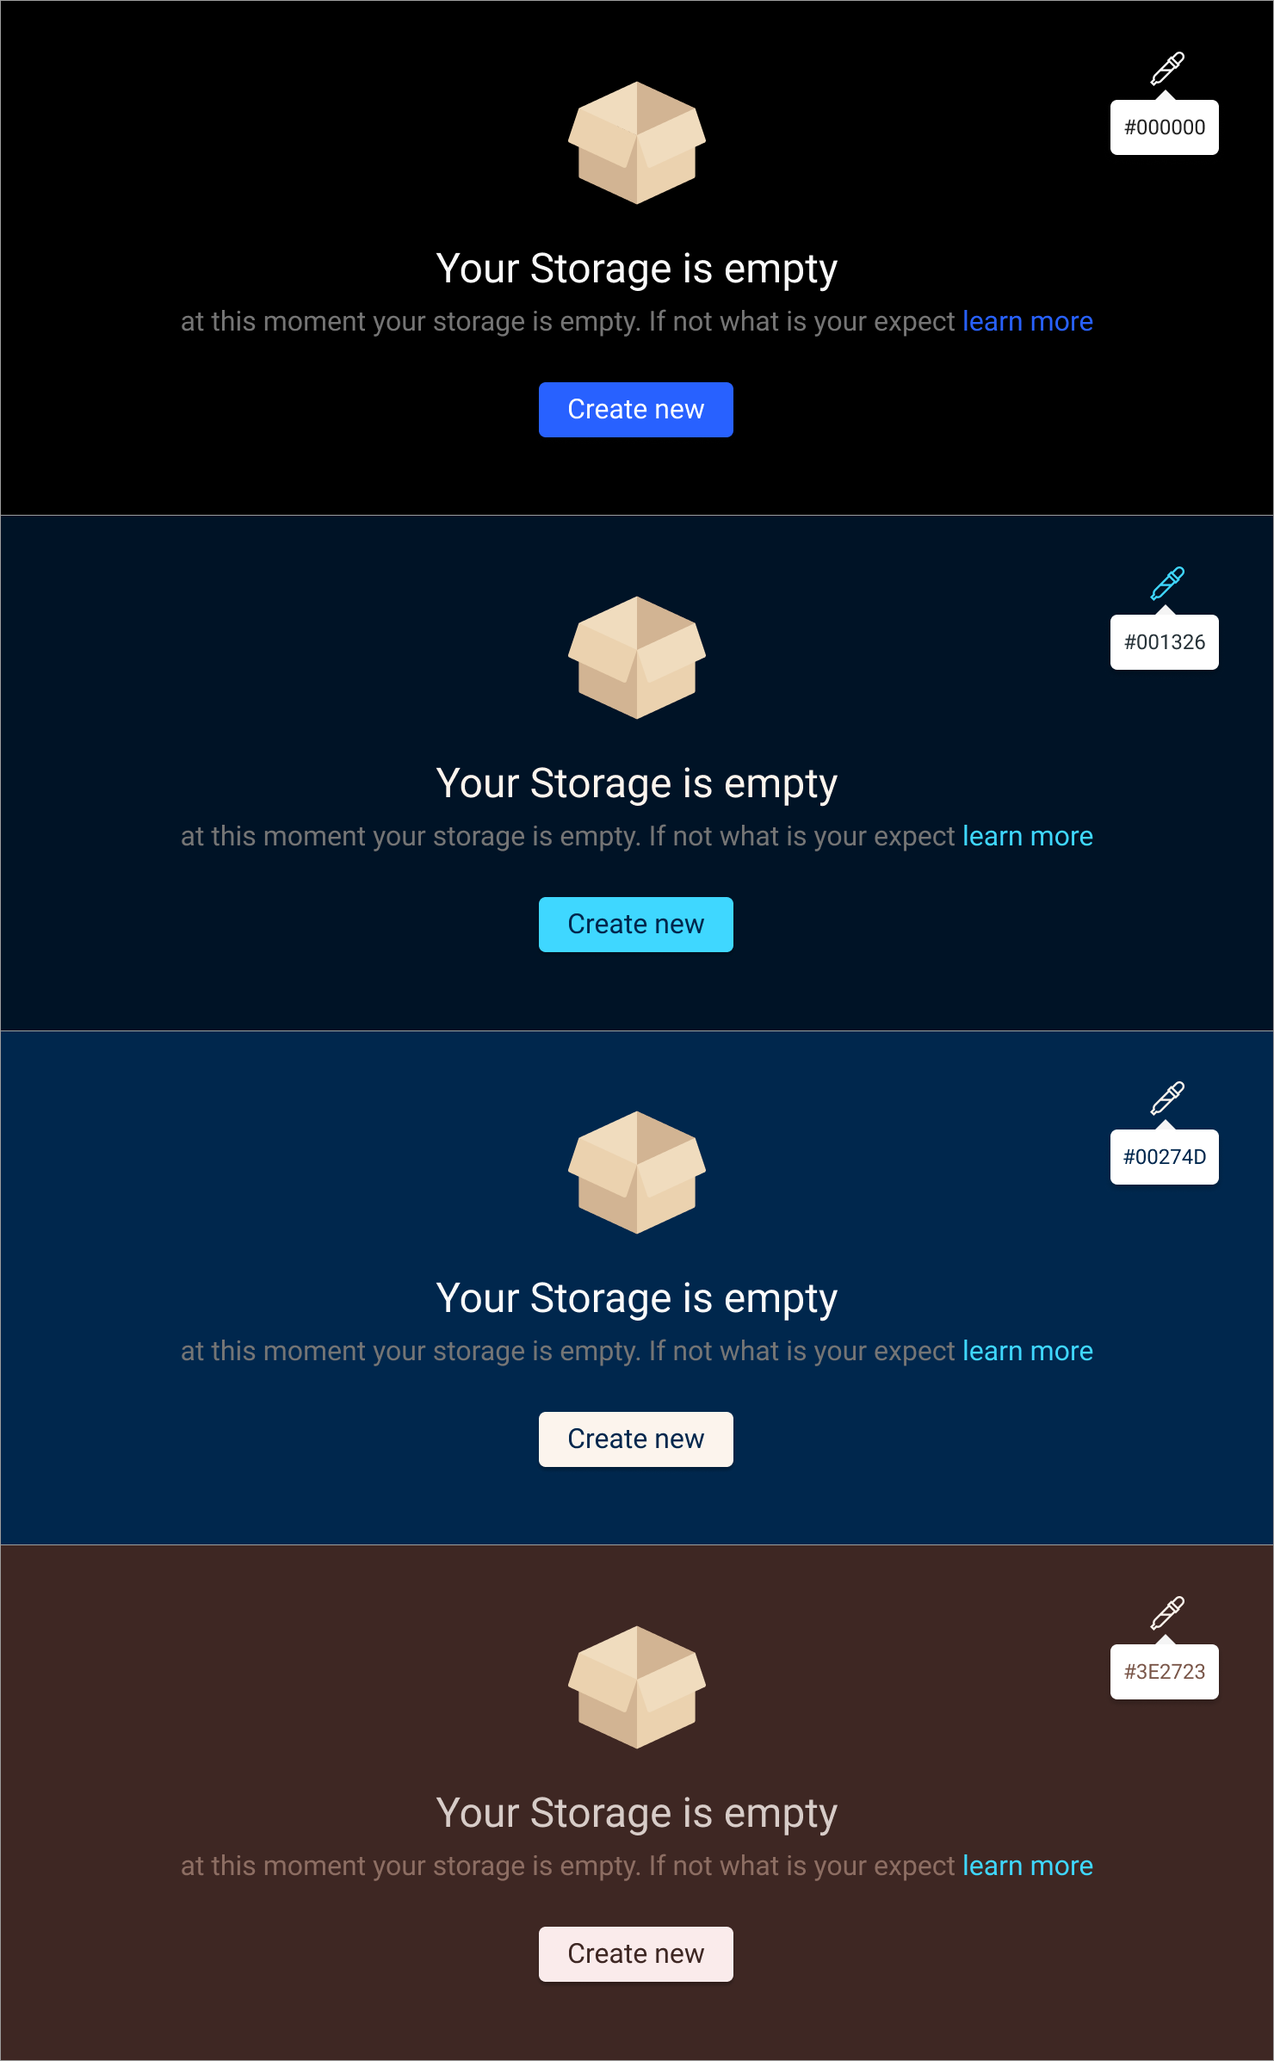
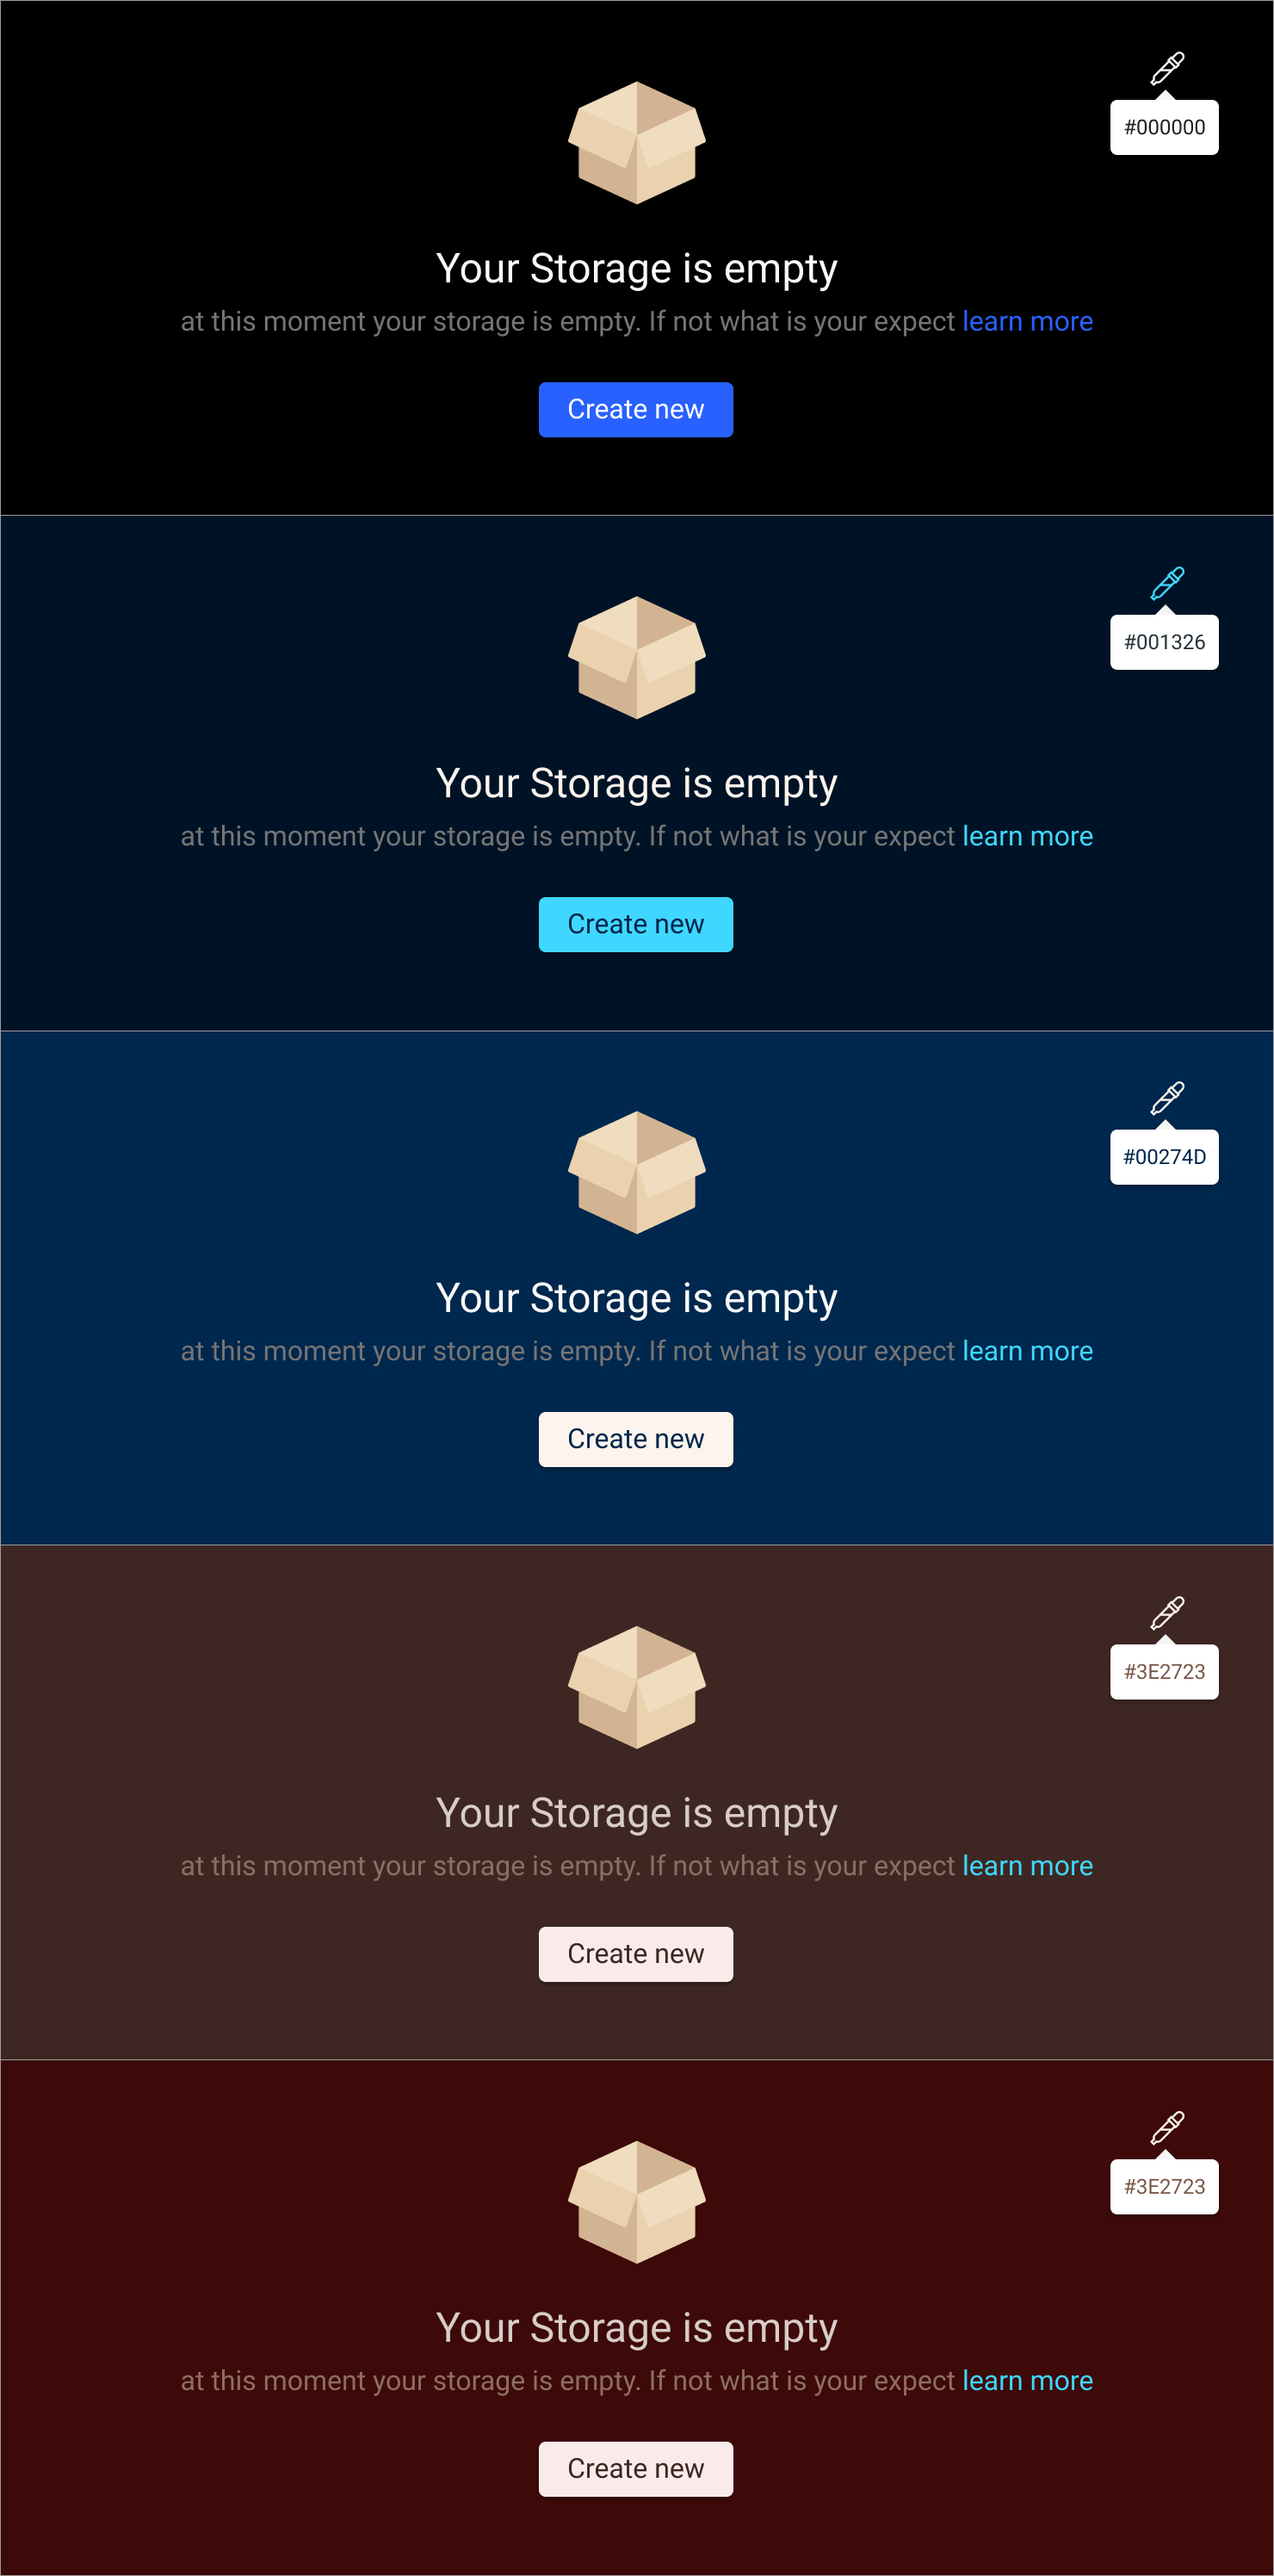
edit elevation

diff --git a/docs/visual-color.md b/docs/visual-color.md
@@ -135,6 +135,22 @@ Colors
 ##### **Elevation structure**
 ![Branding](images/visual-color/theme-elevation1.png)
 
+![Branding](images/visual-color/theme-elevation4.png)
+
+**A. Ground Level** พื้นหลักของตัวแอ๊ปฟลิเคชั่นเอาไว้วาง Ui element หลักๆ เช่นชื่อของแอ๊ปฟลิเคชั่น, Page Navigation, Global search และสถานะของผู้ใช้งาน
+
+**B. Basement** หากต้องการให้เกิด Visual hierarchy ให้ใช้ Basement อะไรก็ตามที่อยู่บนนี้จะมีความสำคัญน้อยลงเพราะเนื้อหาส่วนนี้ดูไกลกว่า Ground level
+นอกจากนั้นแล้วยังได้ sense ของพื้นที่ว่างและลด Visual noise
+
+**C. Float** มีการลงเงามากกว่า Ui element อื่นๆเพื่อให้ดูลอยออกมาจาก Ground Level เหมาะสำหรับ Ui element ที่มีการ Toggle หรือ Floating call-to-action
+
+1. **Container on Basement** 
+2. **Selected** 
+3. **Hover** 
+4. **Static**
+
+
+
 
 ##### **Active / Enable / Disable**
 ![Branding](images/visual-color/theme-elevation2.png)
